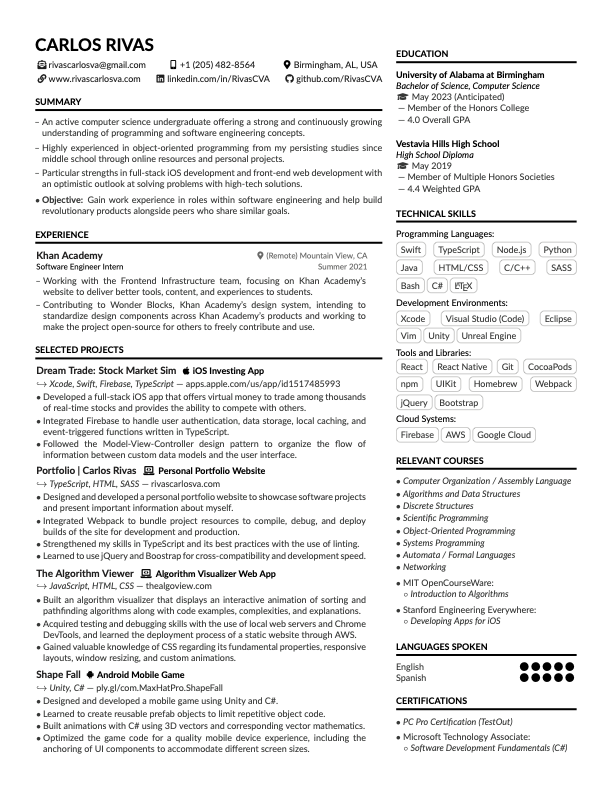
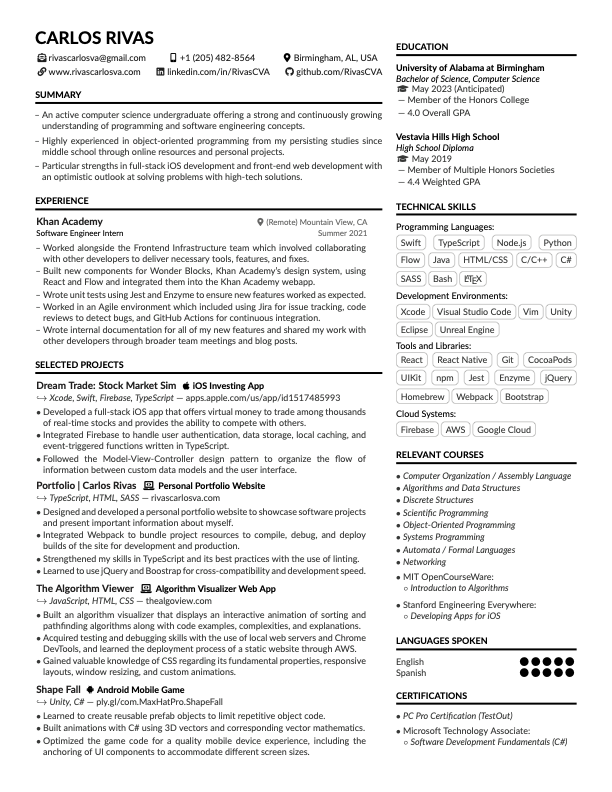
update resume and social media accounts

Changed region(s): [[0.0621, 0.0303, 0.9624, 0.9697]]

diff --git a/src/index.html b/src/index.html
@@ -604,7 +604,7 @@
                 </div>
                 <div class="contact-cell contact-cell--social-media contact-cell--linkedin">
                     <img src="images/icons/linkedin-icon.svg" class="contact-cell__icon">
-                    <a class="contact-cell__label">RivasCarlosVA</a>
+                    <a class="contact-cell__label">RivasCVA</a>
                 </div>
                 <div class="contact-cell contact-cell--social-media contact-cell--twitter">
                     <img src="images/icons/twitter-icon.svg" class="contact-cell__icon">
@@ -616,7 +616,7 @@
                 </div>
                 <div class="contact-cell contact-cell--social-media contact-cell--instagram">
                     <img src="images/icons/instagram-icon.svg" class="contact-cell__icon">
-                    <a class="contact-cell__label">@its_nitemare</a>
+                    <a class="contact-cell__label">@rivascarlosva</a>
                 </div>
                 <div class="border-line border-line--bottom border-line--85 border-line--dark-gray"></div>
             </div>

diff --git a/src/scripts/ts/components/contact.ts b/src/scripts/ts/components/contact.ts
@@ -30,7 +30,7 @@ enum RivasMedia {
     linkedin = 'https://www.linkedin.com/in/RivasCVA',
     twitter = 'https://twitter.com/Its_NiTEMARE',
     reddit = 'https://www.reddit.com/user/Its_NiTEMARE',
-    instagram = 'https://www.instagram.com/its_nitemare/'
+    instagram = 'https://www.instagram.com/rivascarlosva'
 }
 
 /**
